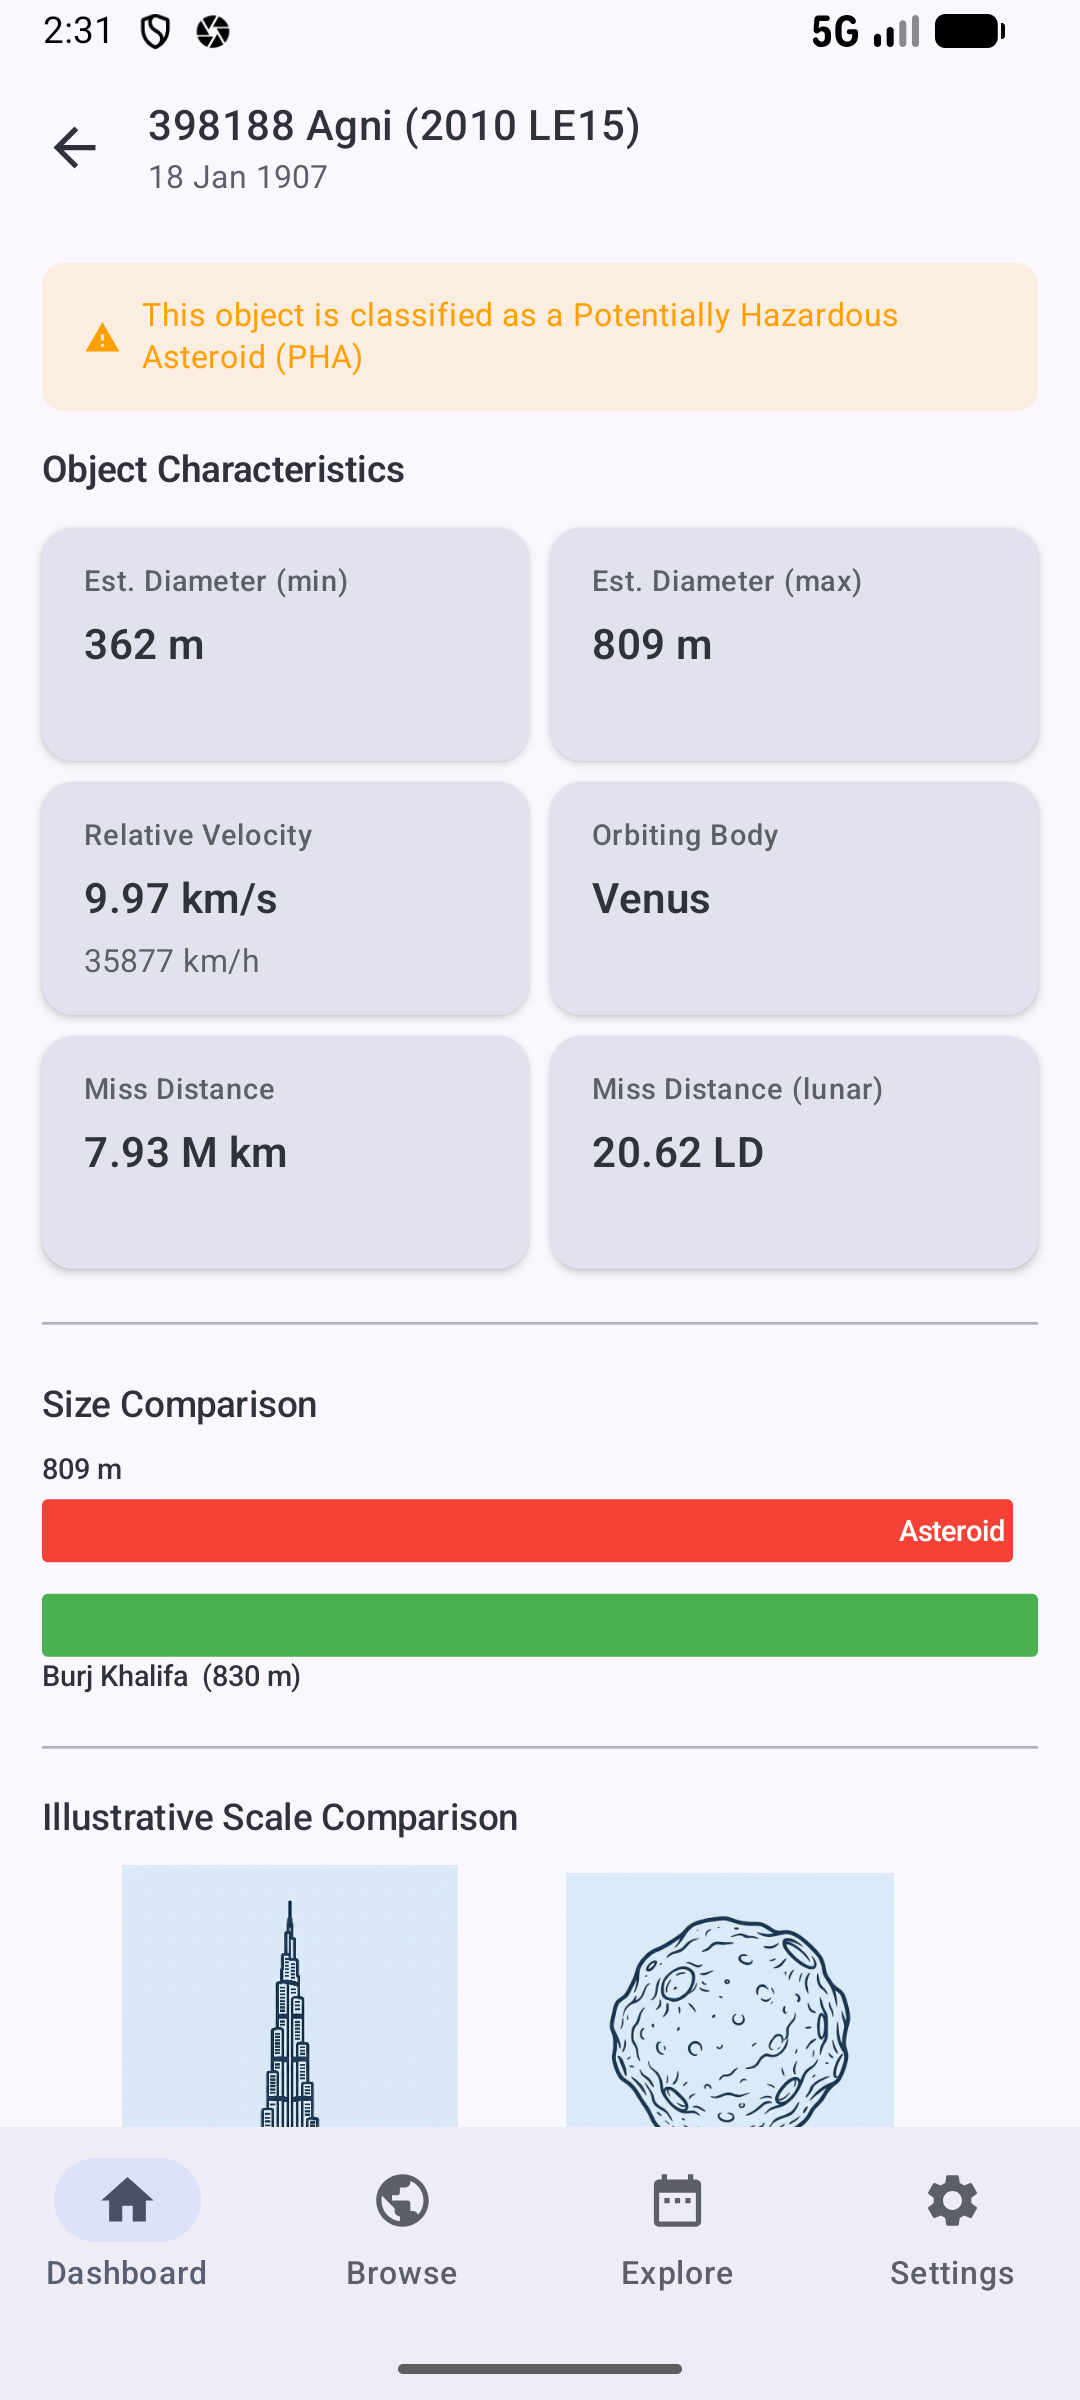
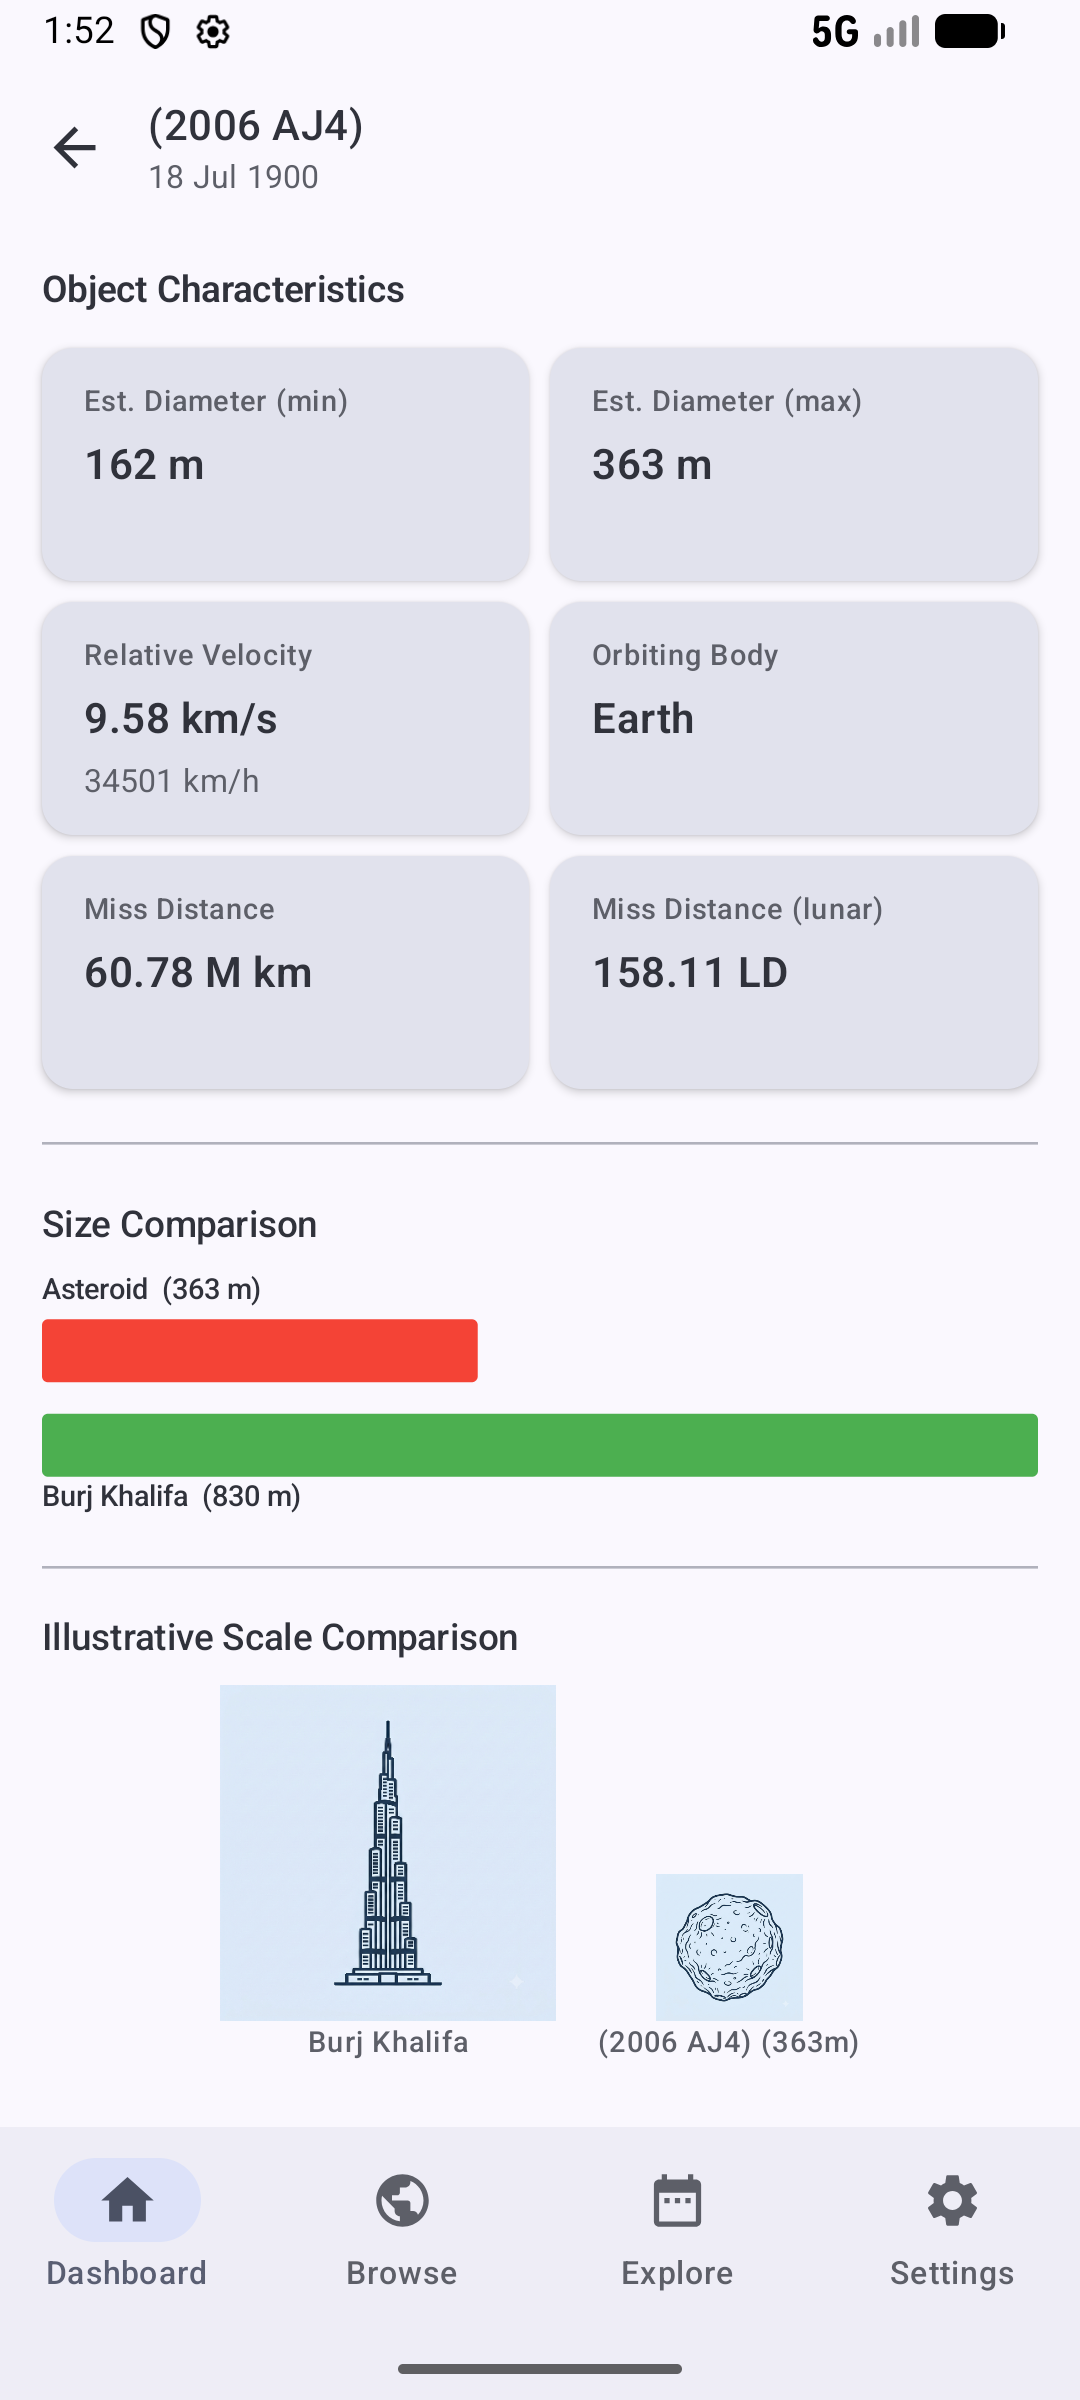
docs: Update details screenshot and readme.

diff --git a/README.md b/README.md
@@ -6,9 +6,9 @@ NeoExplorer is an Android app for exploring **Near-Earth Objects (NEOs)** — as
 
 ## Screenshots
 
-| Dashboard | Asteroid Details |
-|-----------|-----------------|
-| ![Dashboard](docs/Dashboard.png) | ![Asteroid Details](docs/Asteroid_Details.png) |
+| Dashboard                                     | Asteroid Details                                     |
+|-----------------------------------------------|------------------------------------------------------|
+| <img src="docs/Dashboard.png" height="640" /> | <img src="docs/Asteroid_Details.png" height="640" /> |
 
 ---
 
